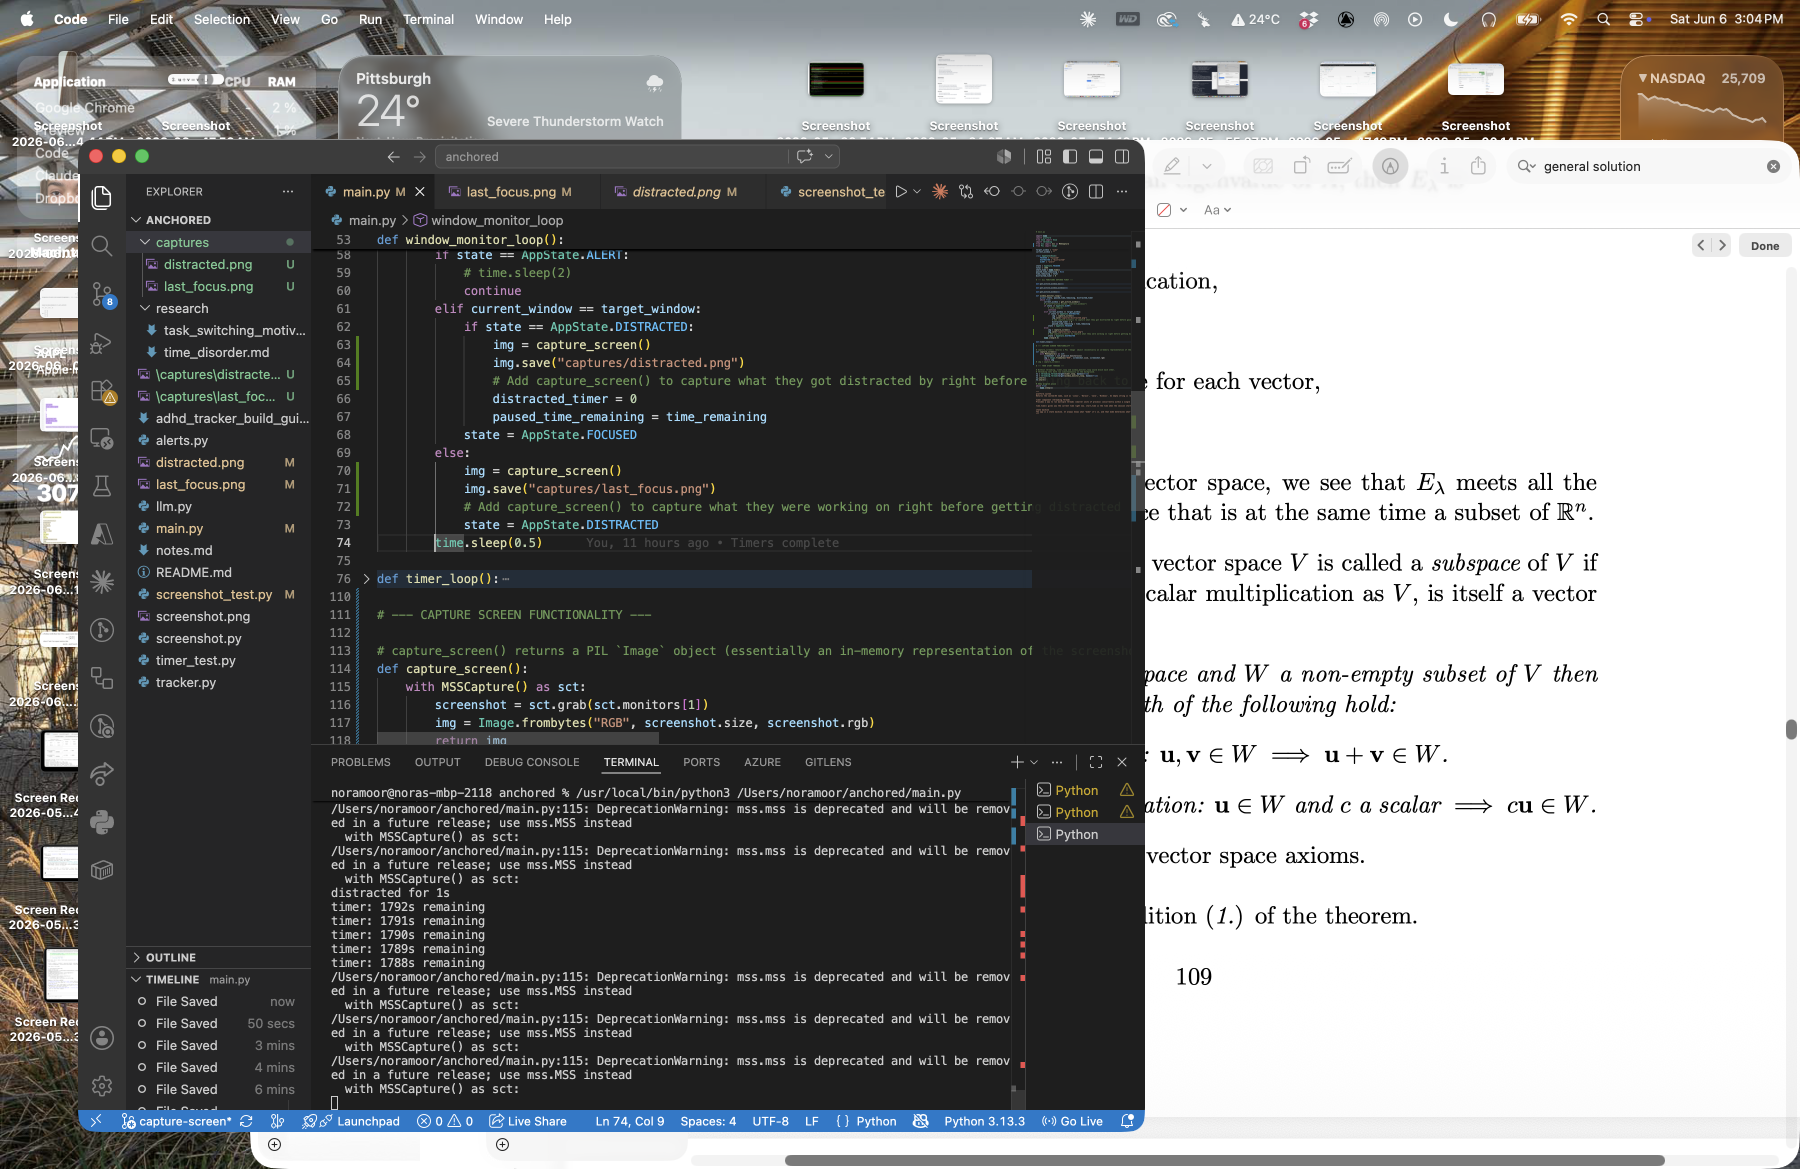
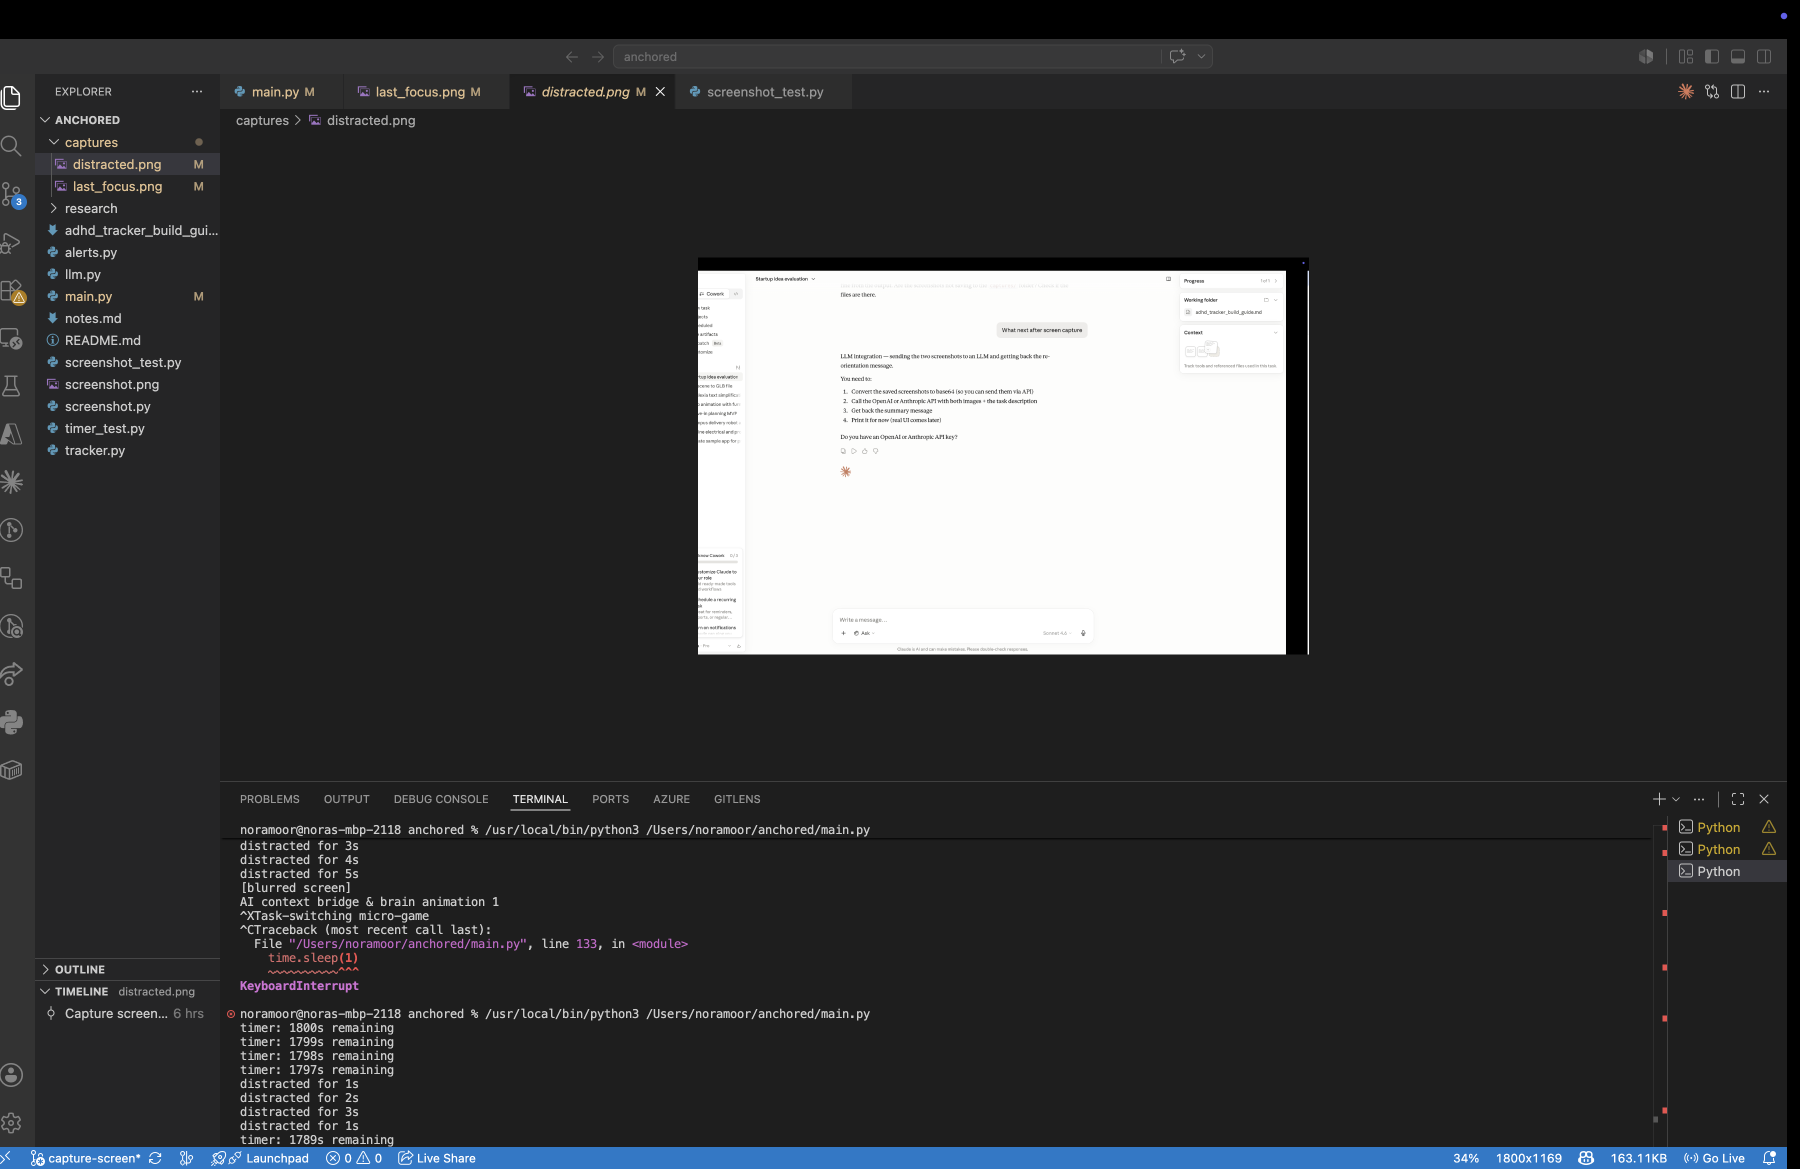
Capture screen complete (for now, we are just moving onto LLM)

diff --git a/main.py b/main.py
@@ -4,7 +4,8 @@ import time
 import platform
 from enum import Enum
 import threading
-from mss import mss as MSSCapture
+import os
+import mss
 from PIL import Image
 
 target_window = "Code"
@@ -21,6 +22,8 @@ start_time = time.time()
 paused_time_remaining = None
 time_remaining = total
 distracted_timer = 0
+
+os.makedirs("captures", exist_ok=True)
 
 # --- ALL FUNCTIONS DEFINED FIRST ---
 
@@ -56,20 +59,19 @@ def window_monitor_loop():
         current_window = get_active_window()
         # print(f"active window: {current_window}")
         if state == AppState.ALERT:
-            # time.sleep(2)
+            time.sleep(0.5)
             continue
         elif current_window == target_window:
+            img = capture_screen()
+            img.save("captures/last_focus.png")
             if state == AppState.DISTRACTED:
-                img = capture_screen()
-                img.save("captures/distracted.png")
-                # Add capture_screen() to capture what they got distracted by right before going back to focus
                 distracted_timer = 0
                 paused_time_remaining = time_remaining
             state = AppState.FOCUSED
         else:
             img = capture_screen()
-            img.save("captures/last_focus.png")
-            # Add capture_screen() to capture what they were working on right before getting distracted
+            img.save("captures/distracted.png")
+            # Captures what they were working on right before getting distracted — only fires once on transition
             state = AppState.DISTRACTED
         time.sleep(0.5)
 
@@ -92,30 +94,31 @@ def timer_loop():
                 state = AppState.ALERT
         elif state == AppState.ALERT:
             # Blur the entire screen
-            # 15 seconds for AI context bridge & empyting brain animation
+            # 15 seconds for AI context bridge & emptying brain animation
             # 15 seconds for task-switching game & filling brain animation
             paused_time_remaining = time_remaining
             distracted_timer = 0
+            # Captures what they are currently distracted by when the alert fires
             print("[blurred screen]")
             time.sleep(1)
             print("AI context bridge & brain animation 1")
             time.sleep(5) # Change to 15 seconds for production
             print("Task-switching micro-game")
-            # print("ALERT: get back to work")
             time.sleep(5) # Change to 15 seconds for production
-            # paused_time_remaining = time_remaining
             start_time = time.time()
             print("--- switched to focused ---")
             state = AppState.FOCUSED
 
 # --- CAPTURE SCREEN FUNCTIONALITY ---
 
-def capture_screen(): # capture_screen() returns a PIL `Image` object (essentially an in-memory representation of the screenshot that you can save to disk, convert ot base64 to send to an LLM, and resize, crop, or manipulate w/PIL)
-    with MSSCapture() as sct:
+# capture_screen() returns a PIL Image object (essentially an in-memory representation of the screenshot
+# that you can save to disk, convert to base64 to send to an LLM, and resize, crop, or manipulate w/PIL)
+def capture_screen():
+    with mss.MSS() as sct:
         screenshot = sct.grab(sct.monitors[1])
         img = Image.frombytes("RGB", screenshot.size, screenshot.rgb)
         return img
-    
+
 # --- THEN START THREADS ---
 
 # Without threading, timer_loop and window_monitor_loop would block each other.

diff --git a/notes.md b/notes.md
@@ -70,3 +70,6 @@ with mss() as sct:
 ```
 
 The reason the first style is common is to avoid confusion — mss is both the module name and the class name inside it. If you do from mss import mss you now have a variable called mss that shadows the module, which can cause confusion later. Keeping it as mss.mss() makes it explicit that you're calling the mss class from the mss module.
+
+
+ADR stands for Architecture Decision Record